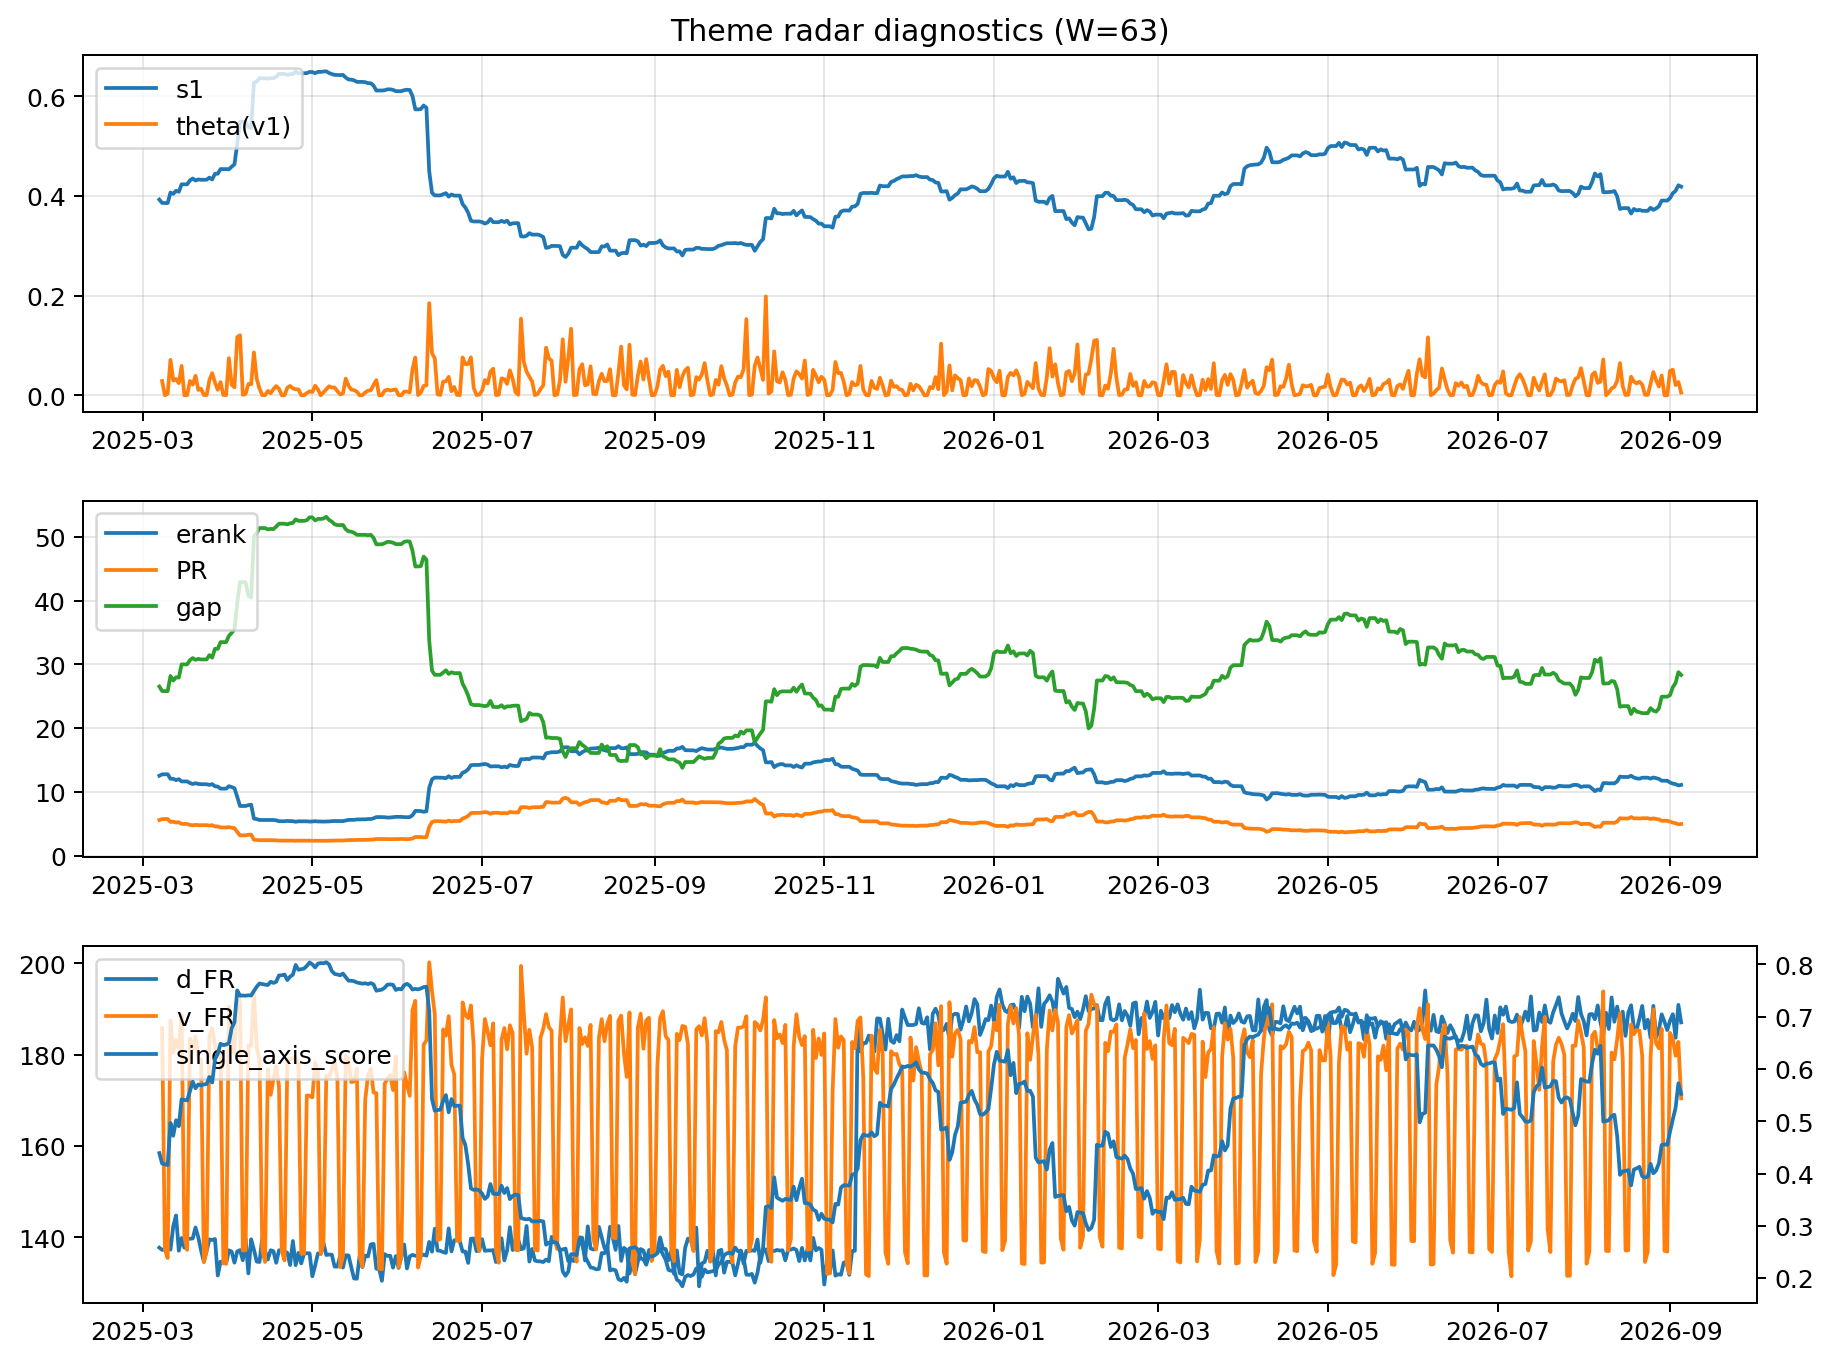
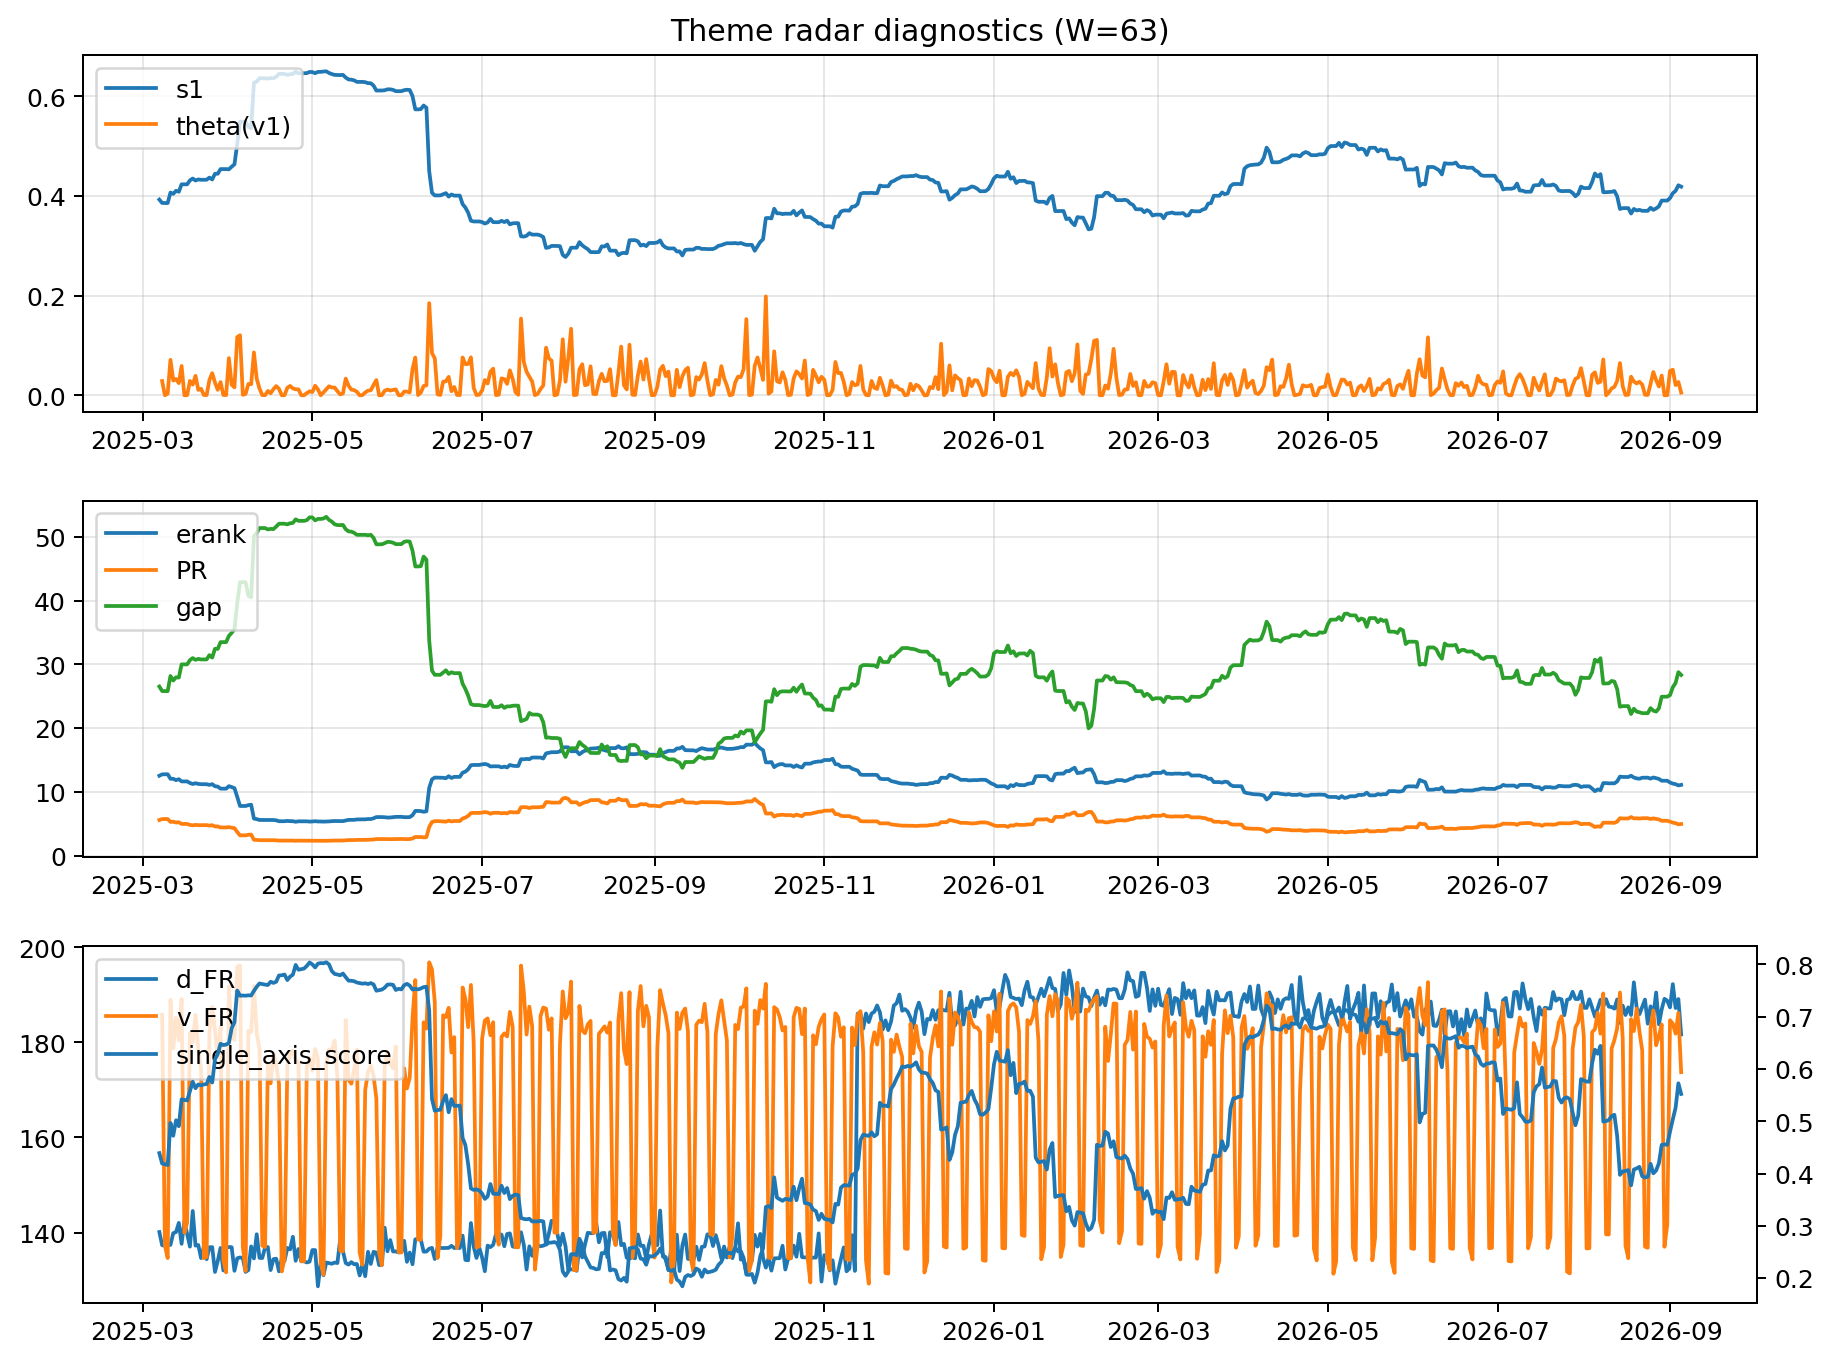
log: 2026-09-05 | sha256:ebfe86f1ea0fe0eb74c88deb64fd867207756aa32c43ba68424b1f2047912c03

diff --git a/logs/2026-09-05.md b/logs/2026-09-05.md
@@ -3,43 +3,43 @@
 ![diagnostic W63](../assets/diagnostic/2026-09-05_W63.png)
 
 ## Leaders (v1) — W=63
-- **Nuclear_Uranium** (0.0884435699828966)
-- Semis (0.0679321533270911)
-- Quantum (0.0624529717894638)
+- **Nuclear_Uranium** (0.08844357011955)
+- Semis (0.067932156078787)
+- Quantum (0.0624529721704344)
 
 ## Challengers — W=63
-**v2:** Rates (0.0931818510375425), Semis (0.0786407451891202), Grid_Power (0.0629135957004164)
-**v3:** Genomics_Bio (0.0905712808283492), Crypto (0.0899007396172856), Metals (0.0761863381387061)
+**v2:** Rates (0.0931818345457946), Semis (0.0786406941134663), Grid_Power (0.0629136100010719)
+**v3:** Genomics_Bio (0.0905712400917656), Crypto (0.0899007028482055), Metals (0.0761862953267346)
 
 ## Migration (20D slope) — W=63
 **Top risers:**
-- axis_Rates: 0.0006565531541448
-- axis_Genomics_Bio: 0.0003983158343612
-- axis_Space: 0.0003487762109697
-- axis_DataCenter_Infra: 0.0003231661310887
-- axis_Software_Cloud: 0.0002906101103157
-- axis_Commodities: 0.0002609997156355
-- axis_Drones_Autonomy: 0.0001578013496393
-- axis_Metals: 7.829982201333528e-05
-- axis_Cyber: 7.689189968313168e-05
-- axis_Sector_Fin: 7.53816428383522e-05
+- axis_Rates: 0.0006565578119278
+- axis_Genomics_Bio: 0.0003983156161132
+- axis_Space: 0.0003487752978968
+- axis_DataCenter_Infra: 0.0003231659010082
+- axis_Software_Cloud: 0.0002906096063843
+- axis_Commodities: 0.0002609994226186
+- axis_Drones_Autonomy: 0.0001578011607688
+- axis_Metals: 7.8299722321477e-05
+- axis_Cyber: 7.689159608034862e-05
+- axis_Sector_Fin: 7.538143081602363e-05
 
 **Top fallers:**
-- axis_Nuclear_Uranium: -0.0001260781113402
-- axis_Equity_US: -0.0001427053476257
-- axis_Robotics: -0.0001490934989889
-- axis_Equity_ExUS: -0.0001492344039815
-- axis_Sector_RealEstate: -0.0001774321063668
-- axis_MegaCap_AI: -0.0001902114258803
-- axis_Sector_Health: -0.0002188379833438
-- axis_Critical_Minerals: -0.0002286411084614
-- axis_Grid_Power: -0.0002556655446044
-- axis_Semis: -0.0003922002845585
+- axis_Nuclear_Uranium: -0.0001260786672806
+- axis_Equity_US: -0.0001427052395904
+- axis_Robotics: -0.0001490934254095
+- axis_Equity_ExUS: -0.000149234205891
+- axis_Sector_RealEstate: -0.0001774319962486
+- axis_MegaCap_AI: -0.0001902112845325
+- axis_Sector_Health: -0.0002188378741681
+- axis_Critical_Minerals: -0.0002286411692694
+- axis_Grid_Power: -0.0002556652349686
+- axis_Semis: -0.0003921998893604
 
 ## Risk line (W=63)
-- s1: 0.4185194146518817
-- theta_v1: 0.0054741265701265
-- v_FR: 170.40656422402168
+- s1: 0.4185194165000075
+- theta_v1: 0.0054741263837406
+- v_FR: 173.7268556452481
 - single_axis_score: 0.5521897810218979
 
 ## Interpretation
@@ -48,7 +48,7 @@
 - Action: Tomorrow watchlist: Rates, Genomics_Bio, Space, DataCenter_Infra, Software_Cloud + v2_top1=Rates
 - Action: Hedge note: normal correlation stability.
 
-- Percentiles (W=63 history): vfr_pct=0.29, theta_pct=0.28, s1_pct=0.56, score_pct=0.58.
+- Percentiles (W=63 history): vfr_pct=0.31, theta_pct=0.28, s1_pct=0.56, score_pct=0.58.
 
 ---
[2 lines of base64/hex data omitted]
